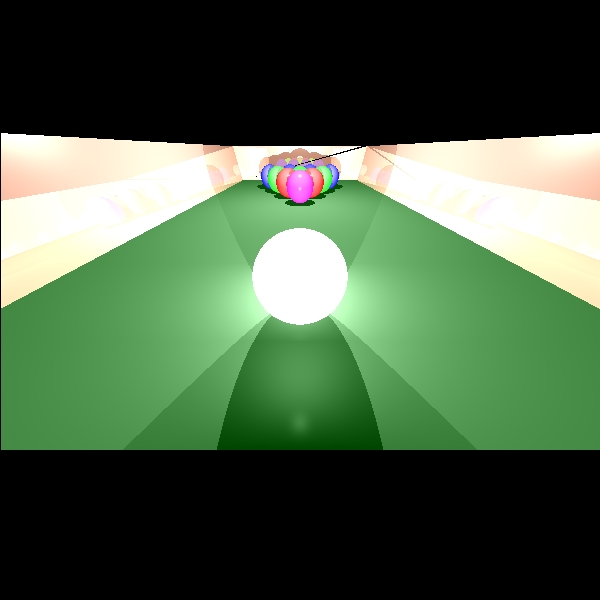
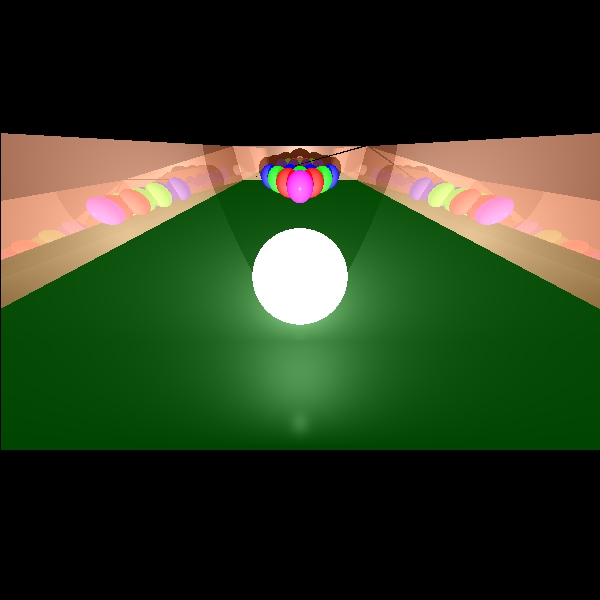
begin stage 5

diff --git a/IME5780-E1-5840-6639/src/renderer/Render.java b/IME5780-E1-5840-6639/src/renderer/Render.java
@@ -2,13 +2,11 @@ package renderer;
 import elements.*;
 import geometries.Intersectable.GeoPoint;
 import geometries.Plane;
-import javafx.scene.effect.Light;
 import primitives.*;
 import scene.*;
 
 import java.util.LinkedList;
 import java.util.List;
-import java.util.Random;
 
 import static primitives.Util.alignZero;
 
@@ -391,7 +389,7 @@ public class Render {
         return rayBeam;
     }
 
-    private List<Ray> getRandomSadowRays(Point3D sourcePoint, Point3D point, double r, int numOfRays){
+    private List<Ray> getRandomShadowRays(Point3D sourcePoint, Point3D point, double r, int numOfRays){
         Vector v = point.subtract(sourcePoint).normalize();
         Vector vx = normalToRay(v);
         Vector vy = v.crossProduct(vx);
@@ -403,8 +401,8 @@ public class Render {
         Point3D p;
         if (light.getClass() == PointLight.class || light.getClass() == SpotLight.class) {
             p = ((PointLight) light).get_pL();
-            List<Ray> sadowRays = getRandomSadowRays(intersectionPoint.point, p, light.getRadius(), numOfRays);
-            for (var ray : sadowRays) {
+            List<Ray> shadowRays = getRandomShadowRays(intersectionPoint.point, p, light.getRadius(), numOfRays);
+            for (var ray : shadowRays) {
                 shadow += transparency(light, ray.getDirection().scale(-1), n, intersectionPoint);
             }
         }

diff --git a/IME5780-E1-5840-6639/src/unittests/Depth_of_field.java b/IME5780-E1-5840-6639/src/unittests/Depth_of_field.java
@@ -66,7 +66,7 @@ public class Depth_of_field {
         ImageWriter imageWriter = new ImageWriter("snooker table", 200, 200, 600, 600);
         Render render = new Render(imageWriter, scene).setMultithreading(3).setDebugPrint();
 
-        render.renderImage(0,40);
+        render.renderImage(0,1);
         render.writeToImage();
     }
 public void addBalls(Point3D upRight, Point3D downRight, Point3D upLeft, Point3D downLeft, double radiusOfBalls, Scene scene){
@@ -103,9 +103,9 @@ public void addBalls(Point3D upRight, Point3D downRight, Point3D upLeft, Point3D
                     temp);
         SpotLight spot = new SpotLight(lightColor,new Point3D(0,downLeft.get_y()*4/5+radiusOfBalls/2,-radiusOfBalls+1),moveLight.scale(-1),1, 4E-5, 2E-7);
         SpotLight spot1 = new SpotLight(lightColor,new Point3D(0,195,-15),new Vector(0,-1,0.31),1, 4E-5, 2E-7);
-        SpotLight spot2 = new SpotLight(lightColor,new Point3D(0,130,-15),new Vector(0,1,0.31),1, 4E-5, 2E-7);
+        //SpotLight spot2 = new SpotLight(lightColor,new Point3D(0,130,-15),new Vector(0,1,0.31),1, 4E-5, 2E-7);
         PointLight point = new PointLight(lightColor,new Point3D(0,0,100),1, 4E-5, 2E-7);
-        scene.addLights(spot,spot1,spot2,point);
+        scene.addLights(spot,spot1,point);
         for (int i = 0; i < 11; i++){
             scene.addGeometries(balls[i]);
 

diff --git a/IME5780-E1-5840-6639/src/geometries/Square.java b/IME5780-E1-5840-6639/src/geometries/Square.java
@@ -1,0 +1,30 @@
+package geometries;
+
+import primitives.*;
+
+import java.util.LinkedList;
+import java.util.List;
+
+public class Square extends Polygon{
+    public Triangle tri1, tri2;
+    public  Square(Color objColor, Material material, Point3D p1, Point3D p2, Point3D p3){
+        tri1 = new Triangle(objColor,material,p1,p2,p3);
+        Point3D mid = new Point3D((p2.get_x()+p3.get_x())/2,(p2.get_y()+p3.get_y())/2,(p2.get_z()+p3.get_z())/2);
+        Vector toP4 = mid.subtract(p1);
+        Point3D p4 = p1.add(toP4.scale(2));
+        tri2 = new Triangle(objColor,material,p4,p2,p3);
+    }
+
+    @Override
+    public List<GeoPoint> findIntersections(Ray ray, double max) {
+        List<GeoPoint> list = new LinkedList<>();
+        list.addAll(tri1.findIntersections(ray, max));
+        list.addAll(tri2.findIntersections(ray,max));
+        return list;
+    }
+
+    @Override
+    public List<GeoPoint> findIntersections(Ray ray) {
+        return this.findIntersections(ray,Double.POSITIVE_INFINITY);
+    }
+}
